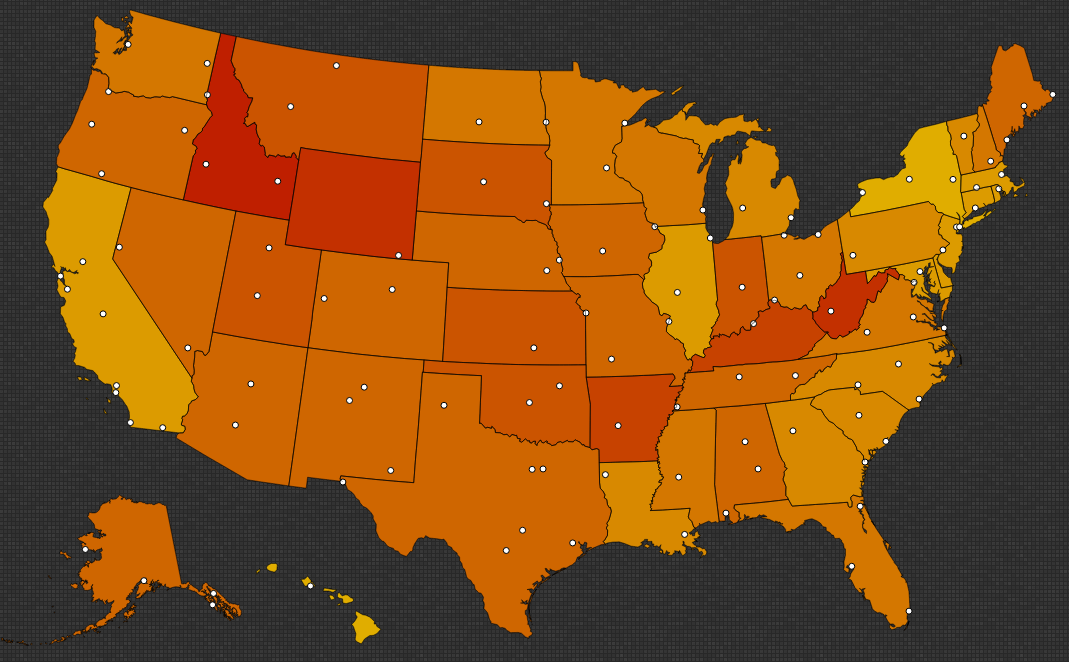
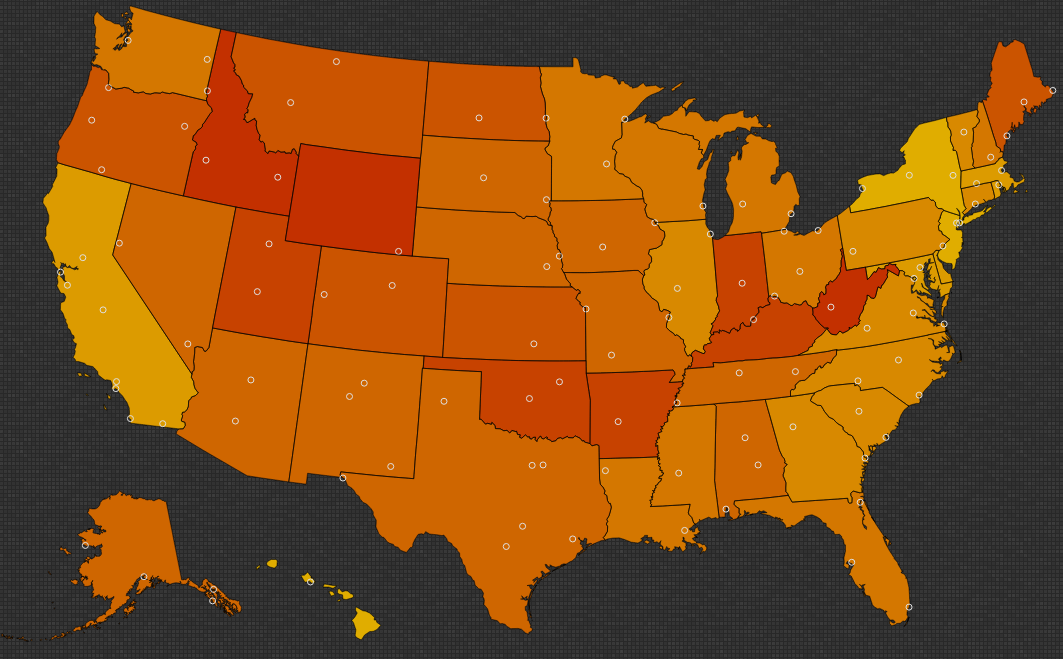
updated cities

diff --git a/css/styles.css b/css/styles.css
@@ -52,9 +52,9 @@ h3{
 }
 
 .cities{
-  fill: #fff;
+  fill: transparent;
   stroke-width: 1px;
-  stroke: #000;
+  stroke: #e0e0e0;
 }
 
 .d3-tip-cities {
